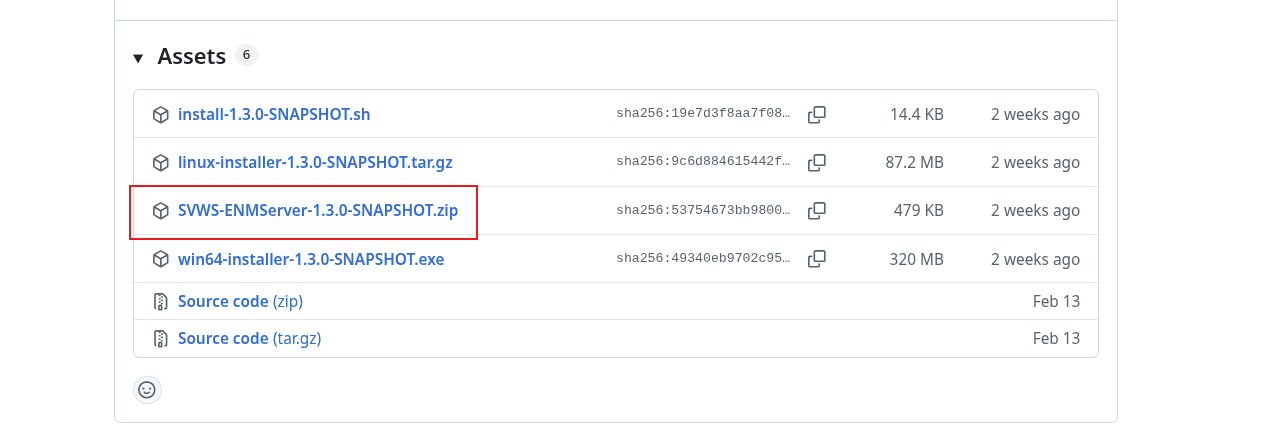
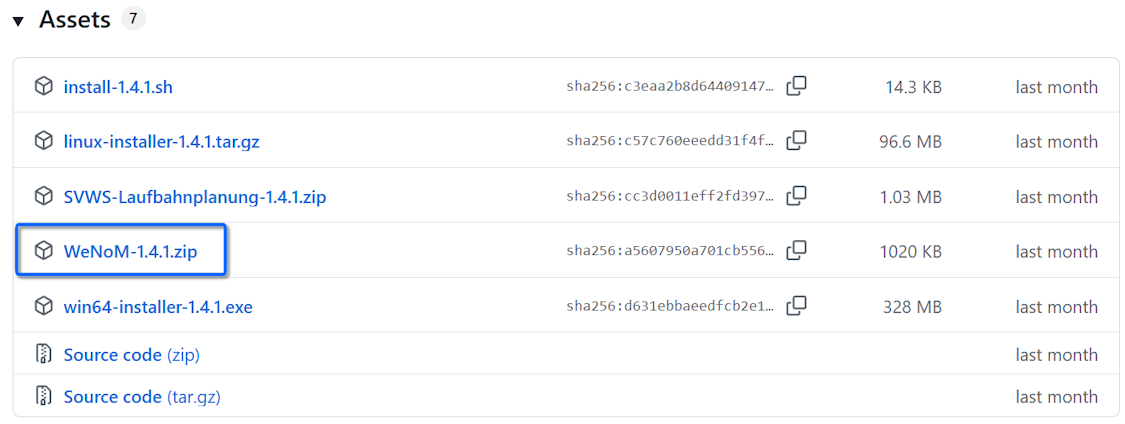
Screenshot in WeNoM mit dem korrekter Installernamen hochgeladen; Text leicht angepasst.

diff --git a/svws-wenom/installation/installation.md b/svws-wenom/installation/installation.md
@@ -50,9 +50,11 @@ Der SVWS-WeNoM ist über eine **eigene (Sub-)Domain** aufzurufen. Richten Sie si
 
 ## Download der SVWS-WeNoM Programmdateien
 
-Unter [github.com/SVWS-NRW/SVWS-Server/releases](https://github.com/SVWS-NRW/SVWS-Server/releases) können neben dem SVWS-Server auch die Programmdateien des zugehörigen SVWS-WeNoM heruntergeladen werden: Dazu klicken Sie auf **WeNoM-x.x.x.zip**.
+Unter [github.com/SVWS-NRW/SVWS-Server/releases](https://github.com/SVWS-NRW/SVWS-Server/releases) können neben dem SVWS-Server auch die Programmdateien des zugehörigen SVWS-WeNoM heruntergeladen werden: Dazu klicken Sie auf **WeNoM-x.x.x.zip**. Die "x.x.x" geben die aktuelle Versionsnummer wieder.
 
-![Laden Sie die Programmdateien von Github herunter, hier: WeNoMx.x.x.zip](./graphics/download_github.png "Laden Sie die gewünschten Dateien herunter.")
+![Laden Sie die Programmdateien von Github herunter, hier: WeNoM-x.x.x.zip](./graphics/download_github.png "Laden Sie die gewünschten Dateien herunter, hier WeNoM-x.x.x.zip.")
+
+Bei den anderen Dateien handelt es sich hier im die Windows- beziehungsweise Linuxinstaller für den SVWS-Server/-Client und die SVWS-Laufbahnplanung (WebLuPO für die Gymnasiale Oberstufe).
 
 ## Kopieren der SVWS-WeNoM Programmdateien
 
